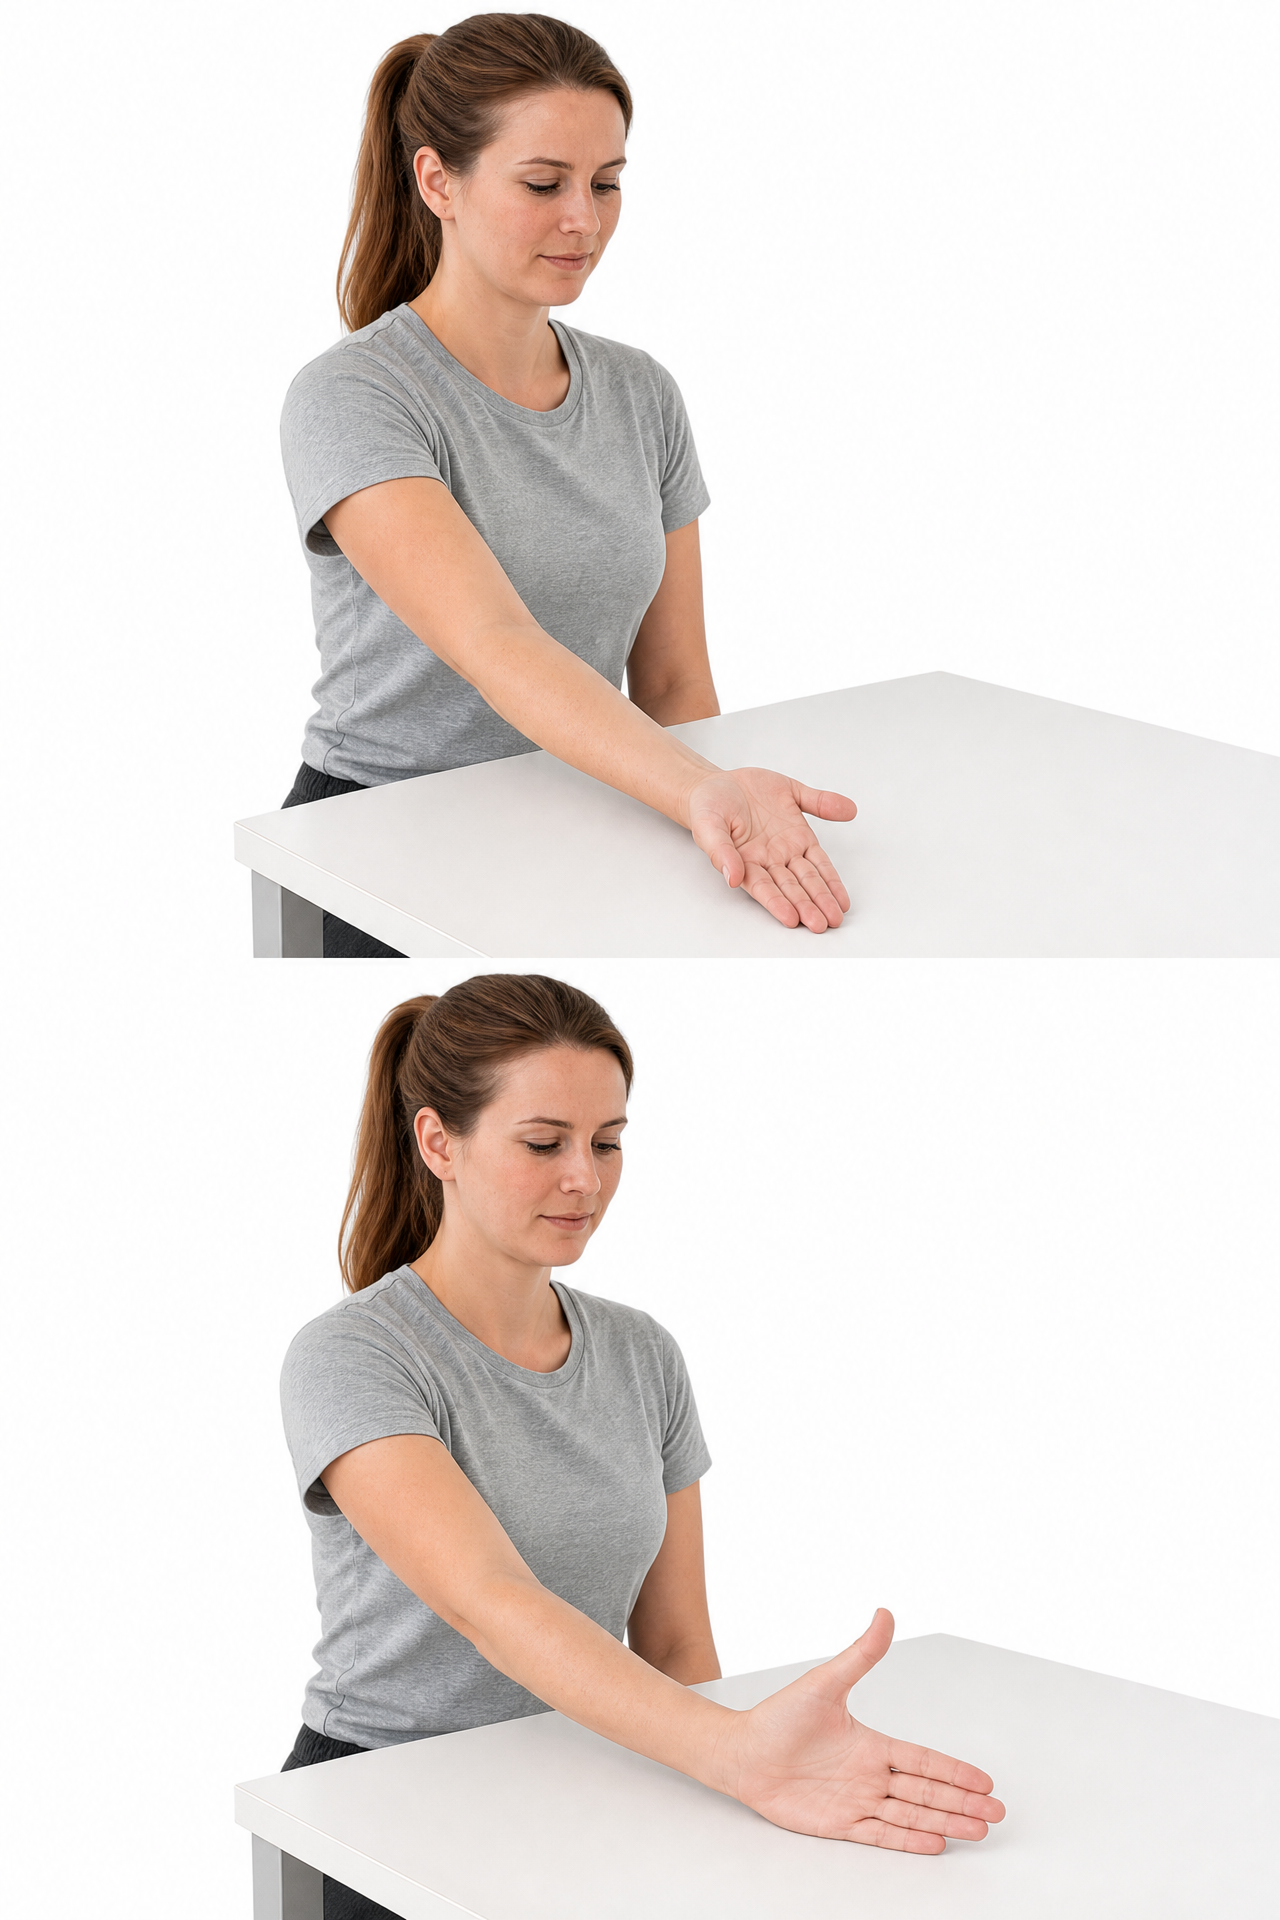
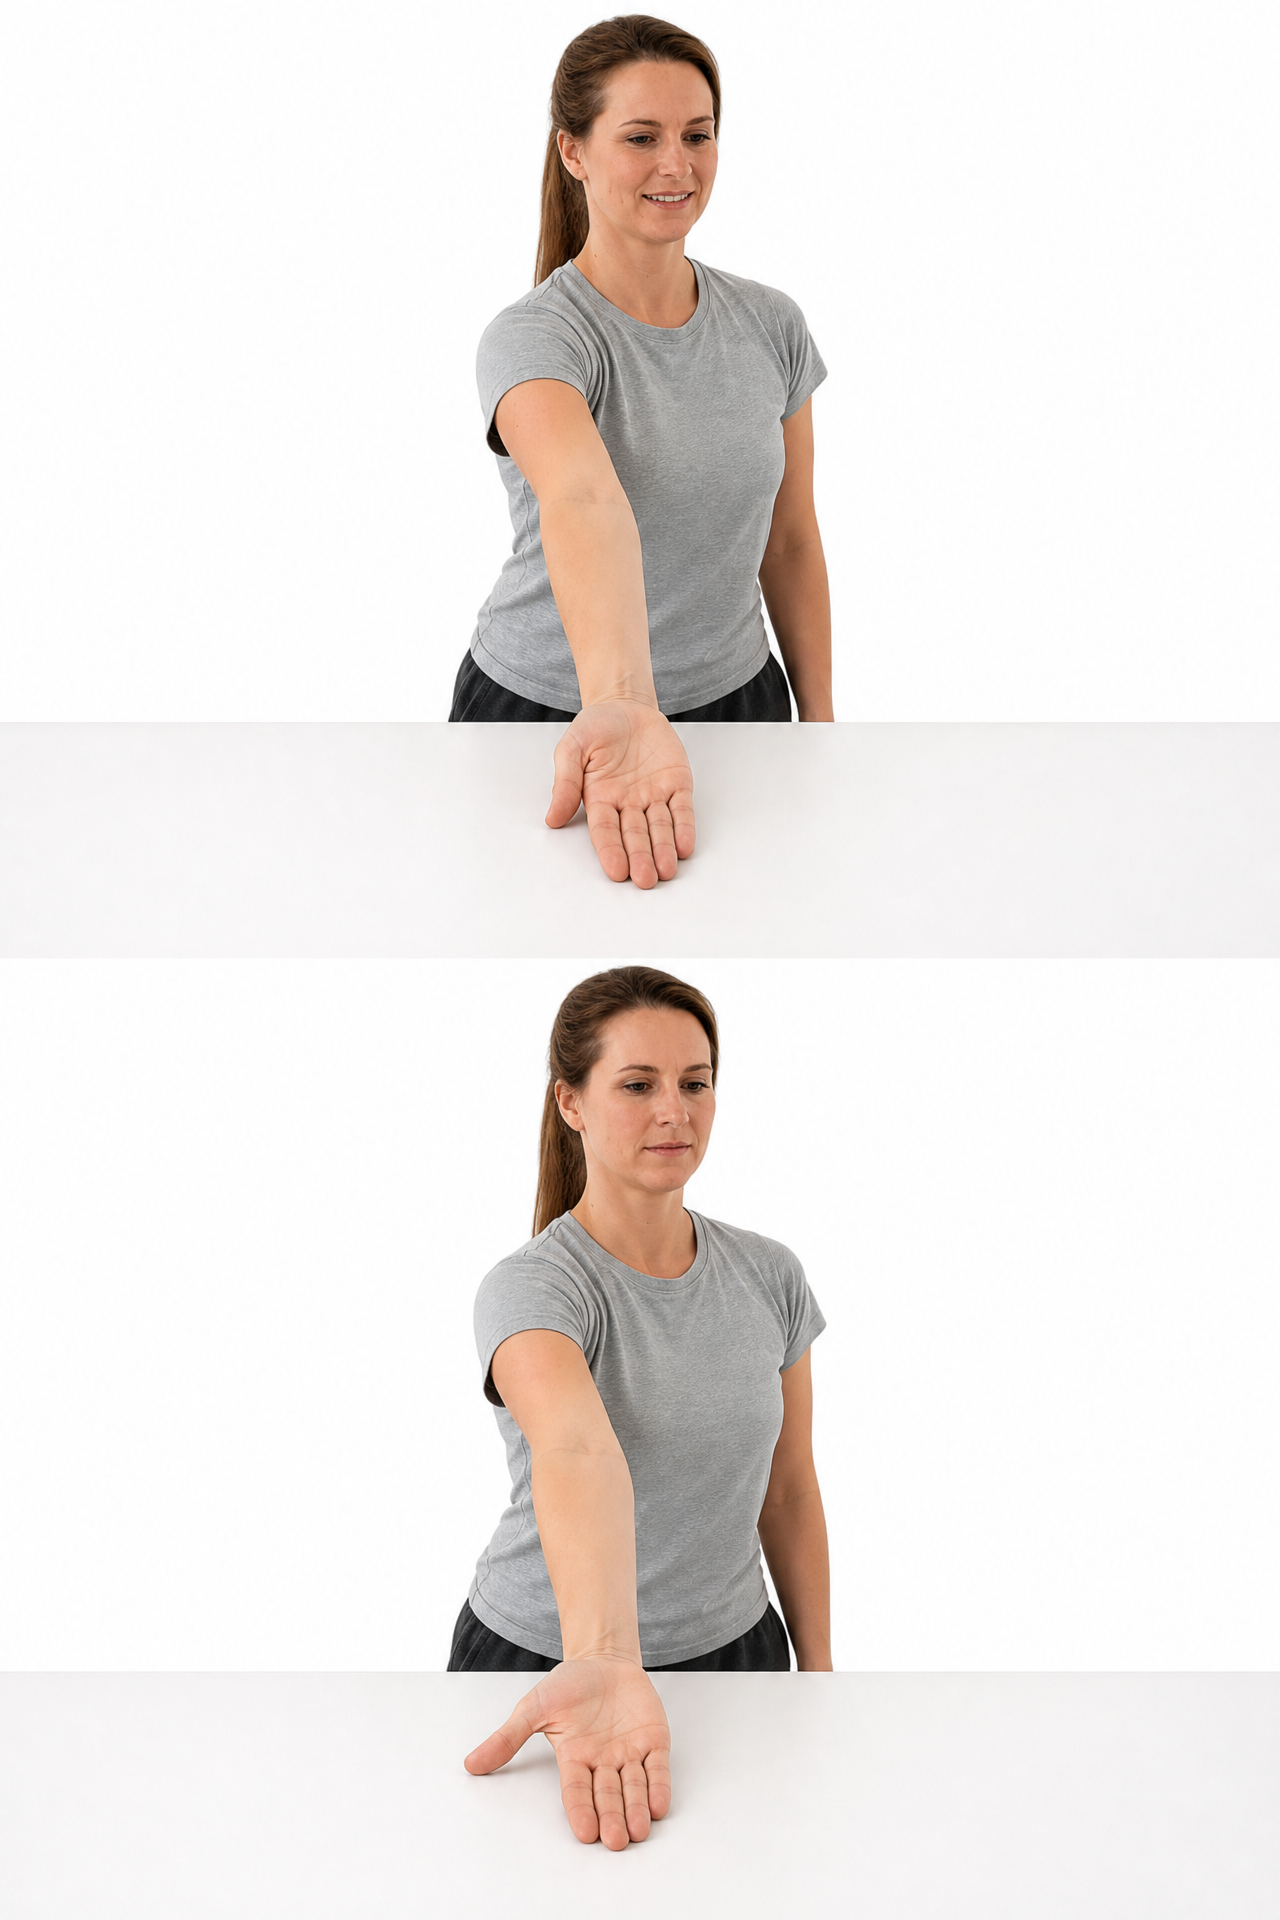
Elleboog/pols/hand: nummer 26 (duim zijwaarts) opnieuw, 15 credits

diff --git a/output/elleboog-pols-hand/proefset/beoordeling.md b/output/elleboog-pols-hand/proefset/beoordeling.md
@@ -2,7 +2,8 @@
 
 - **Ronde 1 (proefset):** akkoord Ahmed "maak de 6 voor max 120". Verbruikt 85 credits (740 → 655).
 - **Ronde 2:** akkoord Ahmed "akkoord, maak de 24 en de herkansingen voor maximaal 400 credits". Verbruikt **290 credits** (655 → 365): 27 lijntekeningen, 31 avatars en 0 fouten.
-- **Totaal:** 375 credits. Saldo 365.
+- **Ronde 3:** nummer 26 opnieuw, akkoord max 20. Verbruikt 15 credits (365 → 350).
+- **Totaal:** 390 credits. Saldo 350.
 
 Overzicht: `_contactvel.png` toont per oefening de lijntekening en de avatar (begin boven, eind onder).
 Afgekeurde of eerdere versies staan als `*-poging1.png` en `*-v1.png`. Niets staat in `public/` of in de oefeningen-JSON.
@@ -35,10 +36,10 @@ Hand- en polsoefeningen zijn ingezoomd (vanaf de taille, tafelrand in beeld).
 | 23 | Vingers buigen en strekken met hulp | ✅ | |
 | 24 | Knijpen in therapieklei | ⚠ matig | verschil begin/eind klein |
 | 25 | Duim buigen en strekken | ✅ | beweging subtiel |
-| 26 | Duim zijwaarts van de hand | ✅ | |
+| 26 | Duim zijwaarts van de hand | ⚠ matig | ronde 3 (akkoord Ahmed, max 20 credits, 15 gebruikt): lijntekening opnieuw en nu goed (close-up van bovenaf, duim tegen wijsvinger, pijl zijwaarts). Avatar: 2 pogingen, geen van beide overtuigend. Poging 1 staat als avatar (duim gaat zijwaarts maar weinig, onderarm hangt); poging 2 is wel een close-up, maar laat het eind niet duidelijk zien |
 | 27 | Duim optillen van de tafel | ✅ | |
 | 28 | Elleboog buigen en strekken met hulp | ✅ | |
 | 29 | Zenuwglijden duimkant (n. radialis) | ✅ | |
 | 30 | Zenuwglijden handpalm (n. medianus) | ✅ | lijntekening opnieuw (de eerste had een halter) |
 
-**Samengevat:** 26 goed, 2 matig (4 en 24) en 2 opnieuw (11 en 20). Voor 11 en 20 is een close-up van alleen de hand nodig, of een foto als voorbeeld.
+**Samengevat:** 25 goed, 3 matig (4, 24 en 26) en 2 opnieuw (11 en 20). Voor 11 en 20 is een close-up van alleen de hand nodig, of een foto als voorbeeld.
